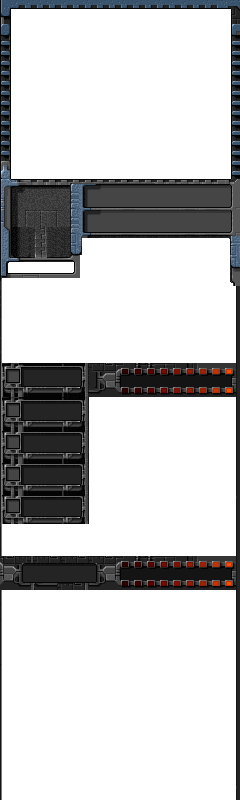
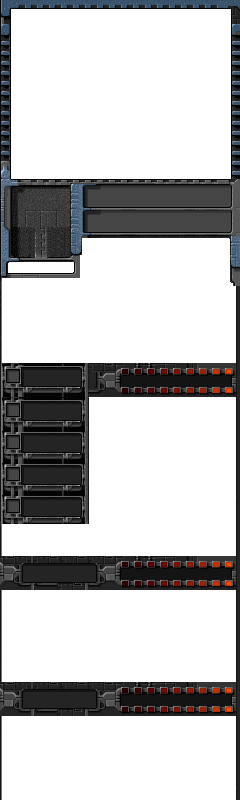
Re-work panels' vertical position

Changed region(s): [[0.0, 0.8438, 0.9917, 0.9062]]

diff --git a/src/ui/MainPanel.ts b/src/ui/MainPanel.ts
@@ -26,10 +26,17 @@ export class MainPanel
         const background = group.game.add.sprite(screenWidth - panelWith, 0, 'CommandPanel', 0, group);
         background.z = 100;
 
-        this.selectedUnitPanel = new SelectedUnitPanel(group, panelWith, unitSelector);
-        this.recruitPanel = new RecruitPanel(group, players.human());
-        new OrderPanel(group, screenWidth, panelWith, players.human());
-        new MenuPanel(group, panelWith, jukebox);
+        let positionY = 190;
+        this.selectedUnitPanel = new SelectedUnitPanel(group, panelWith, unitSelector, positionY);
+
+        positionY += 177;
+        this.recruitPanel = new RecruitPanel(group, players.human(), positionY);
+
+        positionY += 198;
+        new OrderPanel(group, screenWidth, panelWith, players.human(), positionY);
+
+        positionY += 125;
+        new MenuPanel(group, panelWith, jukebox, positionY);
     }
 
     public update()

diff --git a/src/ui/SelectedUnitPanel.ts b/src/ui/SelectedUnitPanel.ts
@@ -21,12 +21,11 @@ export class SelectedUnitPanel
     private drawer: HealthBarDrawer;
     private extraStateText: Phaser.Text;
 
-    constructor(group: Phaser.Group, panelWidth: number, unitSelector: UnitSelector)
+    constructor(group: Phaser.Group, panelWidth: number, unitSelector: UnitSelector, positionY: number)
     {
         this.panelWidth = panelWidth;
         this.textStyle = new TextStyle();
         this.unitSelector = unitSelector;
-        let positionY = 190;
         this.unitStateText = group.game.add.text(group.game.width - 150, positionY, '', this.textStyle.getNormalStyle(), group);
         this.unitStateText.fixedToCamera = true;
 

diff --git a/src/ui/OrderPanel.ts b/src/ui/OrderPanel.ts
@@ -8,11 +8,10 @@ export class OrderPanel
     private screenWidth: number;
     private textStyle: TextStyle;
 
-    constructor(group: Phaser.Group, screenWidth: number, panelWith: number, player: Player)
+    constructor(group: Phaser.Group, screenWidth: number, panelWith: number, player: Player, positionY: number)
     {
         this.screenWidth = screenWidth;
         this.textStyle = new TextStyle();
-        let positionY = 565;
 
         group.game.add.text(screenWidth - 210, positionY, 'Strategies', this.textStyle.getNormalStyle(), group);
 

diff --git a/src/ui/MenuPanel.ts b/src/ui/MenuPanel.ts
@@ -7,11 +7,10 @@ export class MenuPanel
 {
     private soundButton: Phaser.Button;
 
-    constructor(group: Phaser.Group, panelWith: number, jukebox: JukeBox)
+    constructor(group: Phaser.Group, panelWith: number, jukebox: JukeBox, positionY: number)
     {
         const screenWidth = group.game.width;
         const textStyle = new TextStyle();
-        let positionY = 650;
 
         group.game.add.text(screenWidth - 210, positionY, 'Settings', textStyle.getNormalStyle(), group);
 

diff --git a/src/ui/RecruitPanel.ts b/src/ui/RecruitPanel.ts
@@ -19,9 +19,8 @@ export class RecruitPanel
     private tankButton: Phaser.Button;
     private textStyle: TextStyle;
 
-    constructor(group: Phaser.Group, player: Player)
+    constructor(group: Phaser.Group, player: Player, positionY: number)
     {
-        let positionY = 367;
         const buttonHeight = 27;
         const verticalMargin = 5;
         const base = player.getArmy().getBase();
